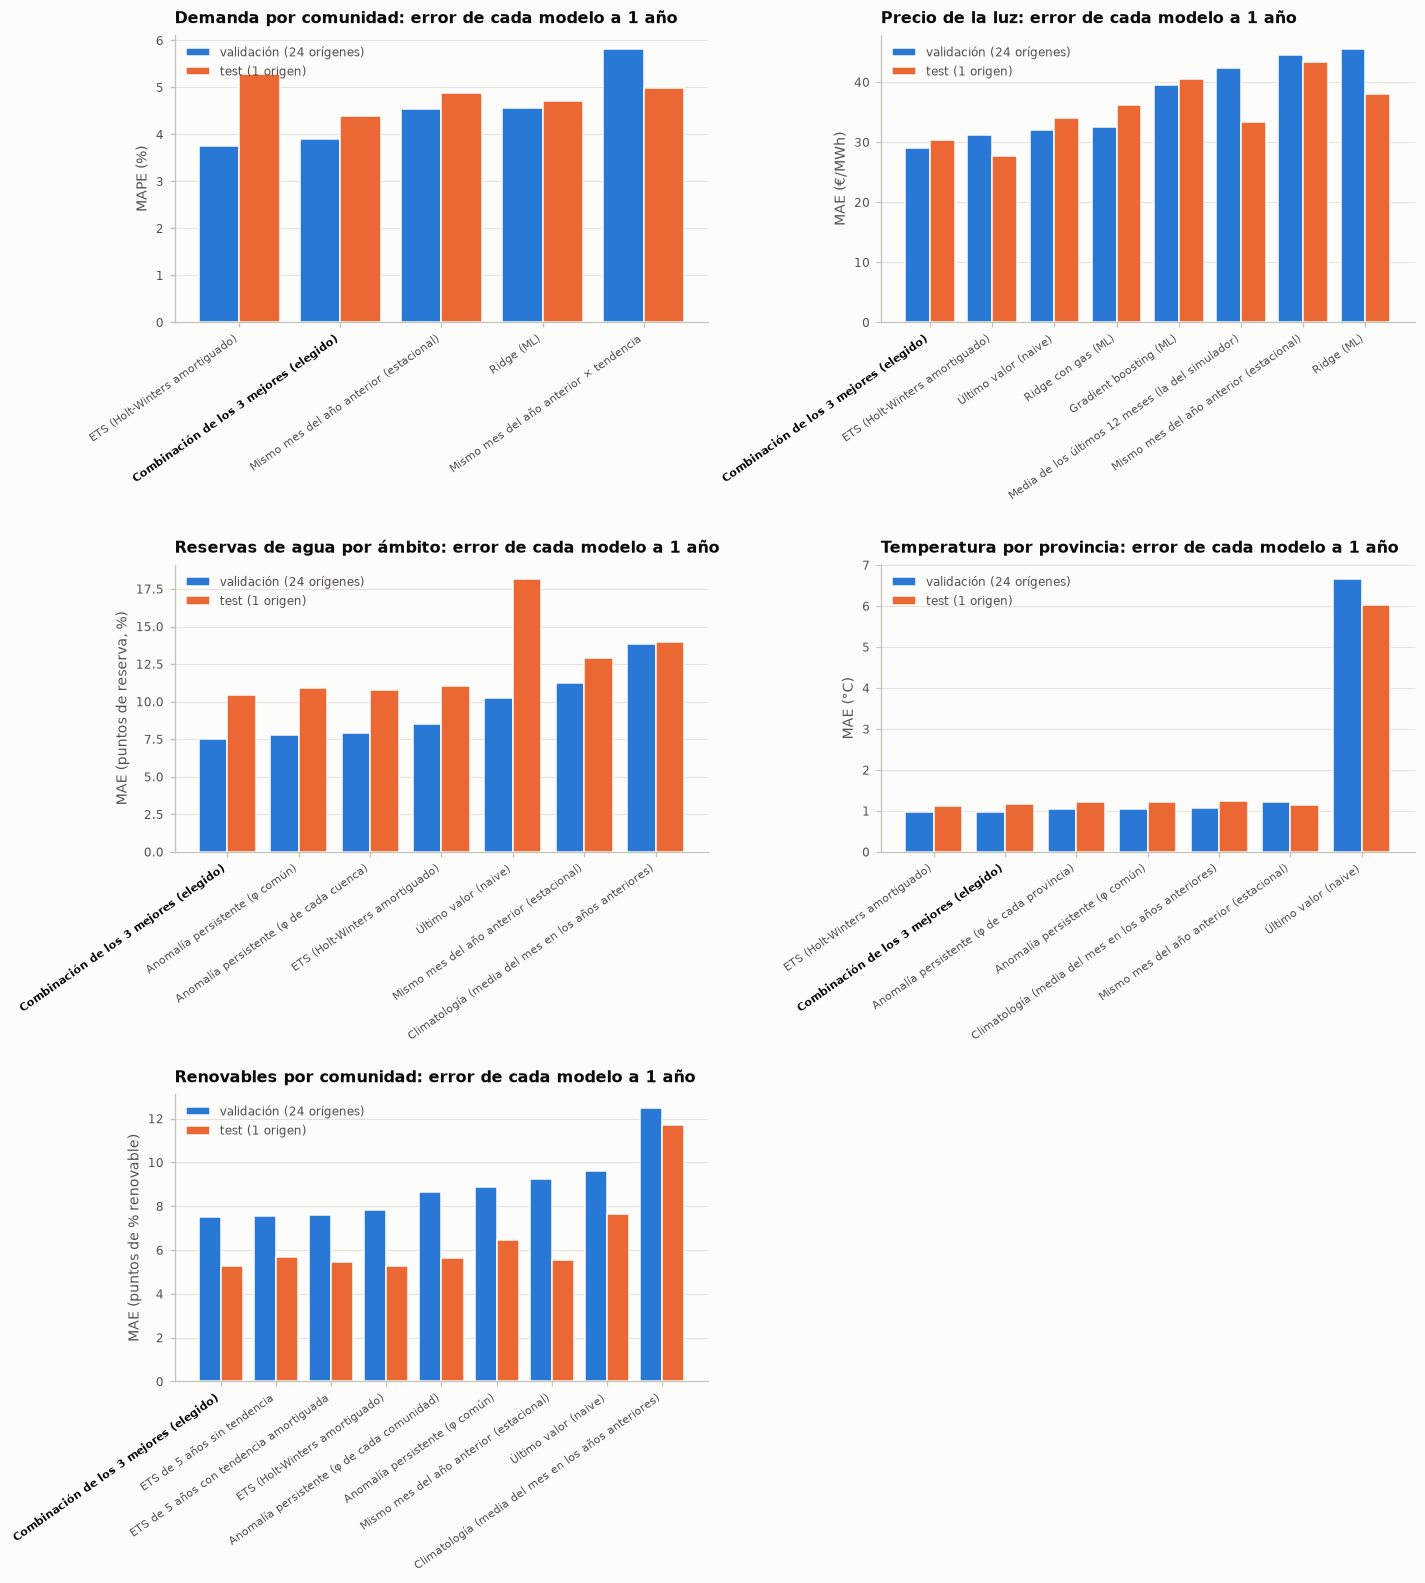
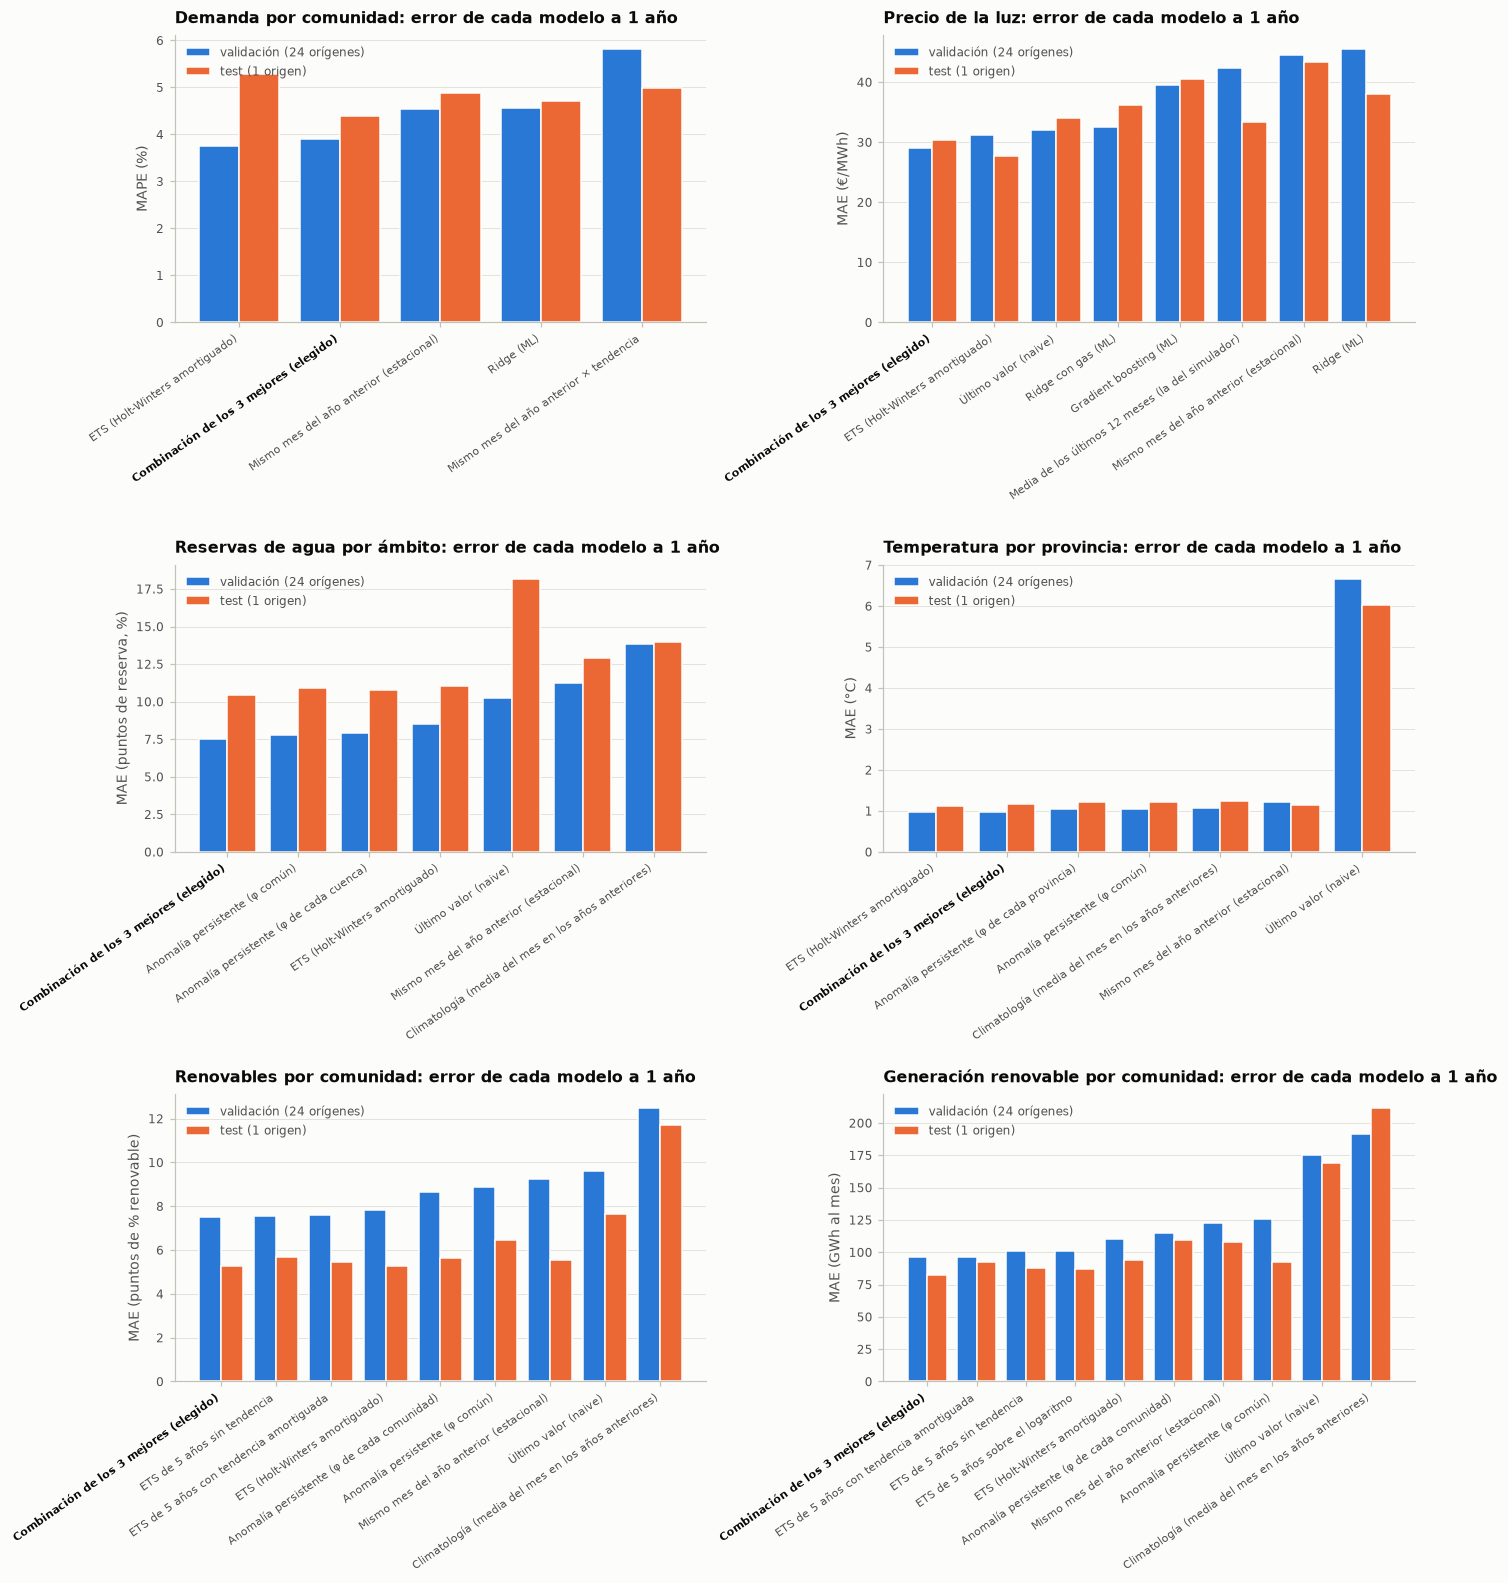
docs(analisis): cobertura renovable en el informe de previsiones y figuras actualizadas
Sección y figura 13 de cobertura renovable por comunidad; las figuras 03, 04 y 08 incluyen
la generación renovable.

diff --git a/docs/analisis/previsiones_1_anio.md b/docs/analisis/previsiones_1_anio.md
@@ -24,11 +24,13 @@ indica una fuga de información. El control se ejecuta en cada `python -m cpd.mo
 | Temperatura por provincia a 1 año | 93,8 % | 92,8 % | 100 − WAPE (en °C) | cumple (objetivo 90 %) |
 | Renovables por comunidad a 1 año (mes a mes) | 84,3 % | 89,5 % | 100 − WAPE | no cumple (< 85 %) |
 | Renovables por comunidad: % medio de 12 meses | 88,7 % | 93,6 % | 100 − WAPE de la media anual | cumple |
+| Generación renovable por comunidad a 1 año (mes a mes) | 84,9 % | 88,1 % | 100 − WAPE (MWh) | no cumple (< 85 %) |
+| Generación renovable por comunidad: total de 12 meses | 90,9 % | 94,0 % | 100 − WAPE del total anual | cumple (objetivo 90 %) |
 | Precio de la luz a 1 año | 59,0 % | 62,4 % | 100 − WAPE | no cumple (< 85 %) |
 | Demanda nacional a 10 años | 97,3 % | — | 100 − WAPE (backtesting 2012-2025) | cumple (objetivo 90 %) |
 | Probabilidad de CPD (prob_cpd) | 90,4 % | — | accuracy fuera de pliegue | cumple (objetivo 90 %) |
 
-**No cumplen:** Renovables por comunidad a 1 año (mes a mes) (no cumple (< 85 %)); Precio de la luz a 1 año (no cumple (< 85 %)). Sus previsiones se enseñan solo como escenario, con el aviso, y no se usan como dato en el simulador.
+**No cumplen:** Renovables por comunidad a 1 año (mes a mes) (no cumple (< 85 %)); Generación renovable por comunidad a 1 año (mes a mes) (no cumple (< 85 %)); Precio de la luz a 1 año (no cumple (< 85 %)). Sus previsiones se enseñan solo como escenario, con el aviso, y no se usan como dato en el simulador.
 
 
 ## Cómo se ha buscado el menor error
@@ -266,6 +268,59 @@ orientativo, con aviso.
 previsión a 1 año con su intervalo.
 
 
+## Cobertura renovable por comunidad autónoma
+
+Cuánta energía renovable genera cada comunidad frente a la que consume: **cobertura = generación renovable / demanda**.
+Por encima del 100 %, la comunidad genera en renovables más de lo que consume: hay energía verde de sobra para un CPD
+nuevo. La generación renovable (MWh, REData) se prevé con los mismos candidatos que el % renovable más una ETS sobre el
+logaritmo; la demanda, con su propio modelo (arriba). Comunidades por encima del 100 %: Extremadura, Castilla y León, Castilla-La Mancha, Aragón.
+
+| Modelo | Acierto validación (mes a mes) | Acierto test (mes a mes) |
+|---|---|---|
+| Combinación de los 3 mejores **(elegido)** | 84,9 % | 88,1 % |
+| ETS de 5 años con tendencia amortiguada (en la combinación) | 84,9 % | 86,6 % |
+| ETS de 5 años sin tendencia (en la combinación) | 84,2 % | 87,3 % |
+| ETS de 5 años sobre el logaritmo (en la combinación) | 84,1 % | 87,5 % |
+| ETS (Holt-Winters amortiguado) | 82,7 % | 86,4 % |
+| Anomalía persistente (φ de cada comunidad) | 82,0 % | 84,2 % |
+| Mismo mes del año anterior (estacional) | 80,8 % | 84,4 % |
+| Anomalía persistente (φ común) | 80,3 % | 86,6 % |
+| Último valor (naive) | 72,4 % | 75,5 % |
+| Climatología (media del mes en los años anteriores) | 70,0 % | 69,4 % |
+
+Validación: orígenes 2022-09 a 2024-08 (24 orígenes). Test: meses 2025-09 a 2026-08. **Total de 12 meses** (la cifra que entra en
+la cobertura): **90,9 %** en validación y **94,0 %** en test. El mes a mes depende del viento, la
+lluvia y el sol de cada mes y se enseña solo como orientativo.
+
+![Cobertura renovable](../../docs/figuras/previsiones/13_cobertura_renovable_ccaa.png)
+
+**Figura 9.** Cobertura renovable de cada comunidad: último año real (azul) y previsión de los próximos 12 meses
+(naranja). La línea discontinua marca el 100 %. La demanda de la península termina en junio de 2026 (ver limitaciones),
+así que los dos periodos de 12 meses no coinciden del todo.
+
+| Comunidad | Renovable último año (GWh) | Demanda último año (GWh) | Cobertura último año | Cobertura prevista |
+|---|---|---|---|---|
+| Extremadura | 15.615 | 5.081 | 307 % | 315 % |
+| Castilla y León | 30.956 | 13.336 | 232 % | 241 % |
+| Castilla-La Mancha | 23.002 | 12.243 | 188 % | 199 % |
+| Aragón | 19.320 | 11.369 | 170 % | 170 % |
+| Galicia | 16.562 | 15.599 | 106 % | 98 % |
+| Comunidad Foral de Navarra | 4.249 | 4.838 | 88 % | 86 % |
+| La Rioja | 1.084 | 1.539 | 70 % | 74 % |
+| Andalucía | 24.116 | 41.573 | 58 % | 60 % |
+| Región de Murcia | 3.689 | 9.359 | 39 % | 48 % |
+| Asturias | 3.118 | 8.259 | 38 % | 41 % |
+| Canarias | 1.922 | 9.137 | 21 % | 20 % |
+| Cataluña | 7.808 | 45.353 | 17 % | 17 % |
+| Illes Balears | 739 | 6.659 | 11 % | 12 % |
+| Comunitat Valenciana | 3.270 | 27.718 | 12 % | 12 % |
+| Cantabria | 403 | 3.741 | 11 % | 11 % |
+| País Vasco | 1.105 | 14.876 | 7 % | 6 % |
+| Madrid | 763 | 28.956 | 3 % | 3 % |
+| Melilla | 4 | 238 | 2 % | 0 % |
+| Ceuta | 0 | 209 | 0 % | 0 % |
+
+
 ## Demanda eléctrica nacional a 10 años (P5)
 
 Demanda anual de España (REData, 2007-2025). Backtesting plurianual: desde el final de cada año entre 2011 y
@@ -274,7 +329,7 @@ deriva, tendencia lineal, Holt amortiguado y la combinación de los 3 mejores.
 
 ![Demanda a 10 años](../../docs/figuras/previsiones/07_demanda_nacional_10_anios.png)
 
-**Figura 9.** Demanda real, lo que el modelo habría previsto desde varios años del pasado y la previsión a 10 años.
+**Figura 10.** Demanda real, lo que el modelo habría previsto desde varios años del pasado y la previsión a 10 años.
 
 MAPE por horizonte (cuantos más años vista, menos orígenes con los que medirlo):
 
@@ -305,12 +360,12 @@ nacional). El intervalo a más de 7 años se extrapola (σ·√h) porque hay poc
 
 ![Error por horizonte](../../docs/figuras/previsiones/03_error_por_horizonte.png)
 
-**Figura 10.** Error medio de cada modelo según los meses de antelación (validación), un gráfico por serie. El elegido
+**Figura 11.** Error medio de cada modelo según los meses de antelación (validación), un gráfico por serie. El elegido
 va en naranja y el resto en gris.
 
 ![Comparación](../../docs/figuras/previsiones/04_comparacion_modelos.png)
 
-**Figura 11.** Error a 1 año de cada modelo en validación y en test, un gráfico por serie (el elegido, en negrita).
+**Figura 12.** Error a 1 año de cada modelo en validación y en test, un gráfico por serie (el elegido, en negrita).
 
 ## Limitaciones
 
